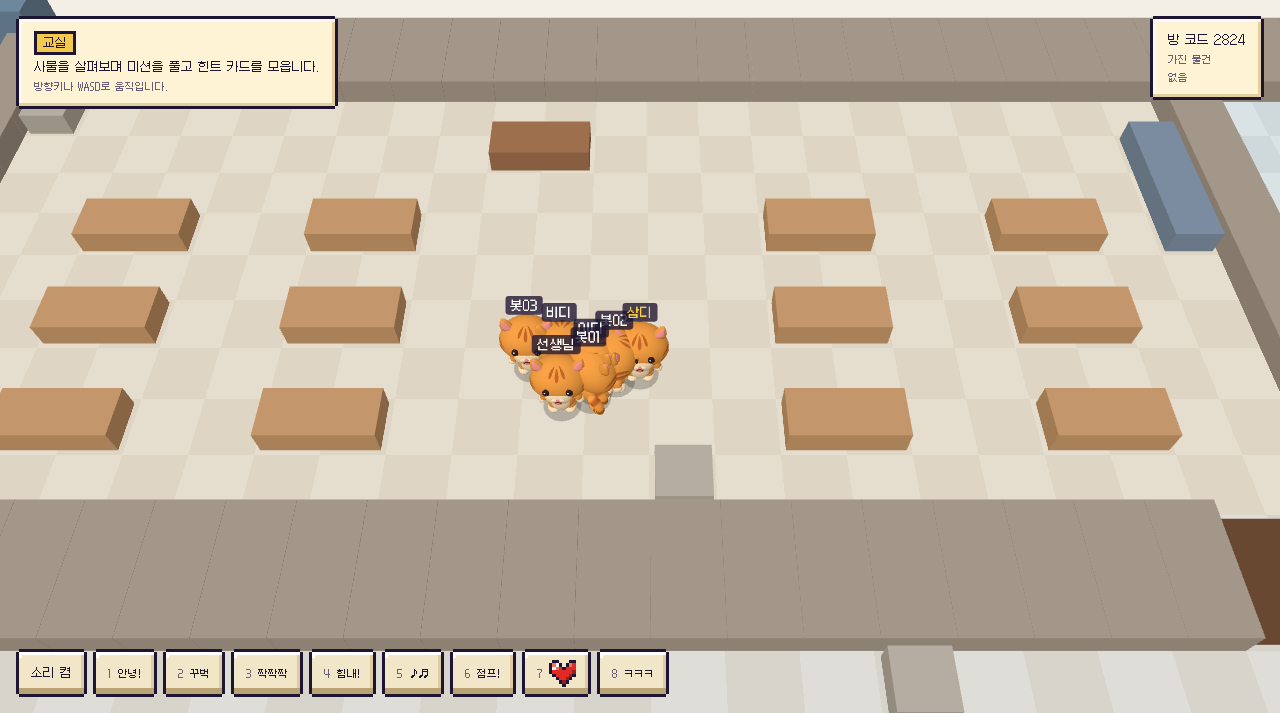
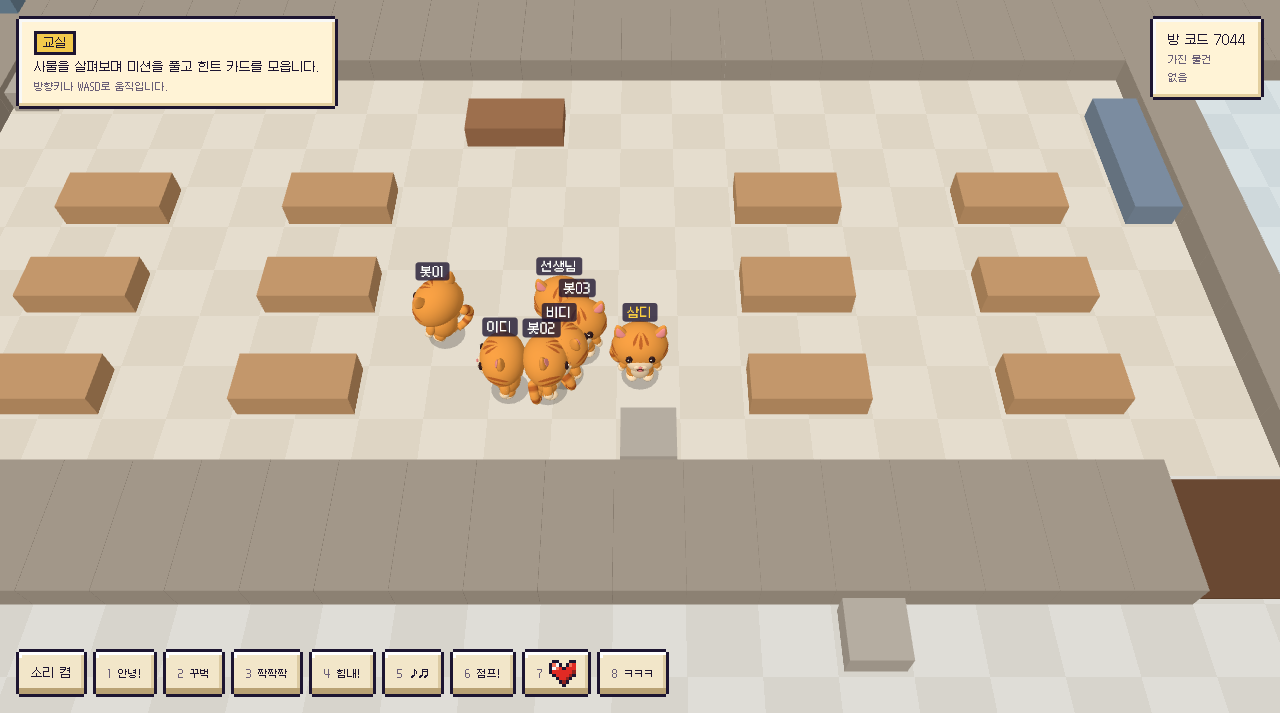
feat: 미니게임 3D 효과음 연결, 선생님 이모트 줄을 접고 골든벨 창 아래로
- src/audio/miniSounds.ts(새)와 soundRules.miniSounds: 세기 3·2·1 삐, 출발, 줍기/금 줍기,
  공에 맞음, 결과 팡파르. 줄다리기는 누를 때 바로 tug(sfx.json gap 0.18초로 너무 잦지 않게).
  minigame3d.ts에는 등록 세 줄(만들기·update·pulled), 전체 상태 감시(gameSounds)에서 미니게임은 뺌.
- 선생님 화면의 이모트 줄은 늘 접힘, 골든벨 맵에서는 선생님 창 맨 아래로 옮김(학생 화면은 그대로).
- 확인 스크립트: playtest:mini3d에 효과음 6개 확인과 대화상자 열림 직후 클릭 대기,
  playtest:fx3d에 선생님 줄 확인과 답 구역을 맵 데이터에서 읽기.

Design: design/quick-specs/emote-sfx-quick-questions-2026-11-22.md
Task: task_77404d6ae467

diff --git a/src/ui/emoteBar.ts b/src/ui/emoteBar.ts
@@ -1,4 +1,5 @@
-// 화면 아래 왼쪽 단추 줄: 소리 켜기/끄기와 이모트 8가지(키보드 1~8). 휴대폰은 이모트를 "이모트" 단추 하나로 접어 두고 누르면 편다.
+// 화면 아래 왼쪽 단추 줄: 소리 켜기/끄기와 이모트 8가지(키보드 1~8). 휴대폰과 선생님 화면은 이모트를 "이모트" 단추 하나로 접어 두고 누르면 편다.
+// 선생님 골든벨 화면에서는 emotes3d.ts가 이 줄을 선생님 창 아래로 옮긴다(경기장을 가리지 않게).
 // 이모트를 보내는 일과 말풍선은 src/three/emotes3d.ts가 맡는다. 겉모양은 src/ui/feature.css.
 import { EMOTES, EMOTE_COOLDOWN_MS } from '../../shared/emotes.ts';
 import type { Sfx } from '../audio/sfx';
@@ -8,7 +9,7 @@ import { uiIcon } from './pictures';
 import './feature.css';
 
 export class EmoteBar {
-  private readonly node = el('div', 'df-fx-bar');
+  readonly node = el('div', 'df-fx-bar');
   private readonly sound = el('button', 'df-button df-button-small df-button-light df-fx-sound');
   private readonly fold = el('button', 'df-button df-button-small df-button-light df-fx-fold', '이모트');
   private readonly list = el('div', 'df-fx-emotes');
@@ -20,10 +21,11 @@ export class EmoteBar {
   private readonly offSound: () => void;
   private readonly onResize = () => this.layout();
 
-  /** onEmote: 이모트 단추를 눌렀을 때(이모트 id) */
+  /** onEmote: 이모트 단추를 눌렀을 때(이모트 id). folded면 화면 크기와 상관없이 접어 둔다(선생님, 이모트를 거의 쓰지 않음). */
   constructor(
     private readonly sfx: Sfx,
     onEmote: (id: string) => void,
+    private readonly folded = false,
   ) {
     watchPhone();
     this.node.setAttribute('aria-label', '소리와 이모트');
@@ -69,7 +71,7 @@ export class EmoteBar {
     this.node.classList.add('is-cooling');
     clearTimeout(this.coolTimer);
     this.coolTimer = setTimeout(() => this.node.classList.remove('is-cooling'), EMOTE_COOLDOWN_MS);
-    if (isPhone() && this.open) {
+    if (this.compact() && this.open) {
       this.open = false;
       this.layout();
     }
@@ -95,10 +97,15 @@ export class EmoteBar {
     this.sound.classList.toggle('is-off', !on);
   }
 
+  /** 이모트를 접어 둘지(휴대폰·선생님) */
+  private compact() {
+    return this.folded || isPhone();
+  }
+
   private layout() {
-    const phone = isPhone();
-    this.fold.hidden = !phone;
-    this.list.hidden = phone && !this.open;
+    const compact = this.compact();
+    this.fold.hidden = !compact;
+    this.list.hidden = compact && !this.open;
     this.fold.setAttribute('aria-expanded', String(this.open));
     this.fold.textContent = this.open ? '이모트 닫기' : '이모트';
   }

diff --git a/src/three/emotes3d.ts b/src/three/emotes3d.ts
@@ -171,7 +171,7 @@ export class Emotes3D {
     private readonly sfx: Sfx = defaultSfx,
   ) {
     for (const e of EMOTES) iconImage(e.icon);
-    this.bar = new EmoteBar(sfx, (id) => this.send(id));
+    this.bar = new EmoteBar(sfx, (id) => this.send(id), net.role === 'teacher');
     window.addEventListener('keydown', this.onKey);
     net.room.onMessage('emote', (m: EmoteBroadcast) => this.receive(m));
     // 서버는 받겠다고 알린 화면에만 이모트를 보낸다(2D 화면·봇에는 보내지 않음). 다시 붙어도 같은 접속 id라 이어진다.
@@ -224,6 +224,7 @@ export class Emotes3D {
 
   /** 매 프레임: 말풍선 자리·투명도와 몸으로 하는 동작. 시간이 지난 말풍선은 지운다. */
   update(now = performance.now()) {
+    this.placeBar();
     for (const [id, b] of this.bubbles) {
       const showMs = this.holdMs || emoteUi.showMs;
       const age = now - b.since;
@@ -245,6 +246,17 @@ export class Emotes3D {
       b.sprite.visible = !this.hushed(id) && ch.shownOpacity > 0;
       if (b.moved === ch) this.pose(ch, b.emote, age);
     }
+  }
+
+  /**
+   * 단추 줄의 자리: 선생님 골든벨 화면이면 선생님 창(.df-gb-panel) 맨 아래(경기장을 가리지 않게), 아니면 화면 아래 왼쪽.
+   * 맵을 옮기면 선생님 창이 줄과 함께 지워지므로 매 프레임 확인해 다시 붙인다.
+   */
+  private placeBar() {
+    const node = this.bar.node;
+    const panel = this.net.role === 'teacher' && this.mapOf() === 'goldenbell' ? document.querySelector('#ui .df-gb-panel') : null;
+    const parent = panel ?? document.getElementById('ui');
+    if (parent && node.parentElement !== parent) parent.append(node);
   }
 
   /** 몸으로 흉내 내는 동작: 숙이기(앞으로 기울였다 돌아옴), 흔들기(좌우), 들썩이기(위아래) */
@@ -308,6 +320,11 @@ export class Emotes3D {
         this.holdMs = ms;
       },
       sounds: () => ({ enabled: this.sfx.enabled, started: this.sfx.started, played: [...this.sfx.played], requested: [...this.sfx.requested] }),
+      /** 확인용: 울린·울리려 한 소리 목록을 비운다 */
+      soundsReset: () => {
+        this.sfx.played.length = 0;
+        this.sfx.requested.length = 0;
+      },
     });
   }
 }

diff --git a/src/audio/soundRules.ts b/src/audio/soundRules.ts
@@ -29,21 +29,28 @@ export function gbSounds(prev: GbSnapshot | null, next: GbSnapshot): SoundName[]
 export interface MiniSnapshot {
   kind: string;
   phase: string;
+  /** 남은 시간(초): 세는 중이면 3·2·1 */
+  timeLeft: number;
+  /** 내 점수(선생님은 0) */
   score: number;
+  /** 공 피하기에서 내가 맞아 탈락함 */
   out: boolean;
 }
 
-export function miniSounds(prev: MiniSnapshot | null, next: MiniSnapshot): SoundName[] {
+/**
+ * 미니게임 상태 변화 → 소리. 세기 3·2·1마다 삐, 시작(play)에 출발 소리, 보물찾기에서 내 점수가 오르면 줍기
+ * (한 번에 goldPoints 넘게 오르면 금 보물), 공에 맞으면 맞음, 결과 창이 뜨면 팡파르.
+ * 줄다리기 당기기는 점수(서버가 센 수)가 아니라 누를 때 화면이 바로 울린다(MiniSounds.pulled). 공 피하기 점수(버틴 시간)는 소리 없음.
+ */
+export function miniSounds(prev: MiniSnapshot | null, next: MiniSnapshot, goldPoints: number): SoundName[] {
   if (!prev) return [];
   const out: SoundName[] = [];
-  if ((next.phase === 'count' || next.phase === 'play') && prev.phase !== 'count' && prev.phase !== 'play') out.push('miniStart');
-  if (next.phase === 'play' && next.score > prev.score) {
-    // 보물찾기는 주운 점수, 줄다리기는 누른 수가 오른다(공 피하기의 점수는 버틴 시간이라 소리를 내지 않는다).
-    if (next.kind === 'treasure') out.push('pick');
-    else if (next.kind === 'tug') out.push('pop');
+  if (next.phase === 'count' && next.timeLeft > 0 && (prev.phase !== 'count' || prev.timeLeft !== next.timeLeft)) out.push('countBeep');
+  if (next.phase === 'play' && prev.phase !== 'play') out.push('miniStart');
+  if (next.phase === 'play' && prev.phase === 'play' && next.kind === 'treasure' && next.score > prev.score) {
+    out.push(next.score - prev.score >= goldPoints ? 'pickGold' : 'pick');
   }
   if (next.out && !prev.out) out.push('hit');
   if (next.phase === 'result' && prev.phase !== 'result') out.push('fanfare');
   return out;
 }
-

diff --git a/src/audio/gameSounds.ts b/src/audio/gameSounds.ts
@@ -1,16 +1,15 @@
 // 서버 상태가 바뀌면 효과음을 울린다(design/quick-specs/emote-sfx-quick-questions-2026-11-22.md).
 // 상태를 0.1초마다 보고 바뀐 것에만 소리를 낸다: 골든벨(문제 시작, 마감 3초 째깍, 내 채점 결과, 결과 팡파르),
-// 공지·강당으로 모으기, 미니게임(시작, 보물 줍기, 공에 맞음, 줄 당기기, 결과). 미니게임 3D 화면이 없어도 상태만 보고 울린다.
+// 공지·강당으로 모으기. 미니게임 소리는 미니게임 3D 화면(src/three/minigame3d.ts)이 MiniSounds(src/audio/miniSounds.ts)로 건다.
 import type { Net } from '../net/connection';
 import { sfx as defaultSfx, type Sfx } from './sfx';
-import { gbSounds, miniSounds, type GbSnapshot, type MiniSnapshot } from './soundRules.ts';
+import { gbSounds, type GbSnapshot } from './soundRules.ts';
 
 const POLL_MS = 100;
 
 /** 이 화면의 연결에 효과음을 건다. 그만둘 때 부를 함수를 돌려준다. */
 export function startGameSounds(net: Net, sfx: Sfx = defaultSfx) {
   let gb: GbSnapshot | null = null;
-  let mini: MiniSnapshot | null = null;
   let gathering = false;
   const timer = setInterval(() => {
     const me = net.me();
@@ -25,10 +24,6 @@ export function startGameSounds(net: Net, sfx: Sfx = defaultSfx) {
     };
     for (const s of gbSounds(gb, gbNext)) sfx.play(s);
     gb = gbNext;
-    const m = net.mini;
-    const miniNext: MiniSnapshot = { kind: m.kind, phase: m.phase, score: student ? (me?.miniScore ?? 0) : 0, out: student && !!me?.miniOut };
-    for (const s of miniSounds(mini, miniNext)) sfx.play(s);
-    mini = miniNext;
     const g2 = net.gather.left > 0;
     if (g2 && !gathering) sfx.play('notice');
     gathering = g2;

diff --git a/src/three/minigame3d.ts b/src/three/minigame3d.ts
@@ -38,6 +38,7 @@ import {
   type MiniKind,
 } from '../../shared/minigame.ts';
 import { CLASS_GROUPS, classGroupName } from '../../shared/protocol.ts';
+import { MiniSounds } from '../audio/miniSounds';
 import type { Player } from '../../shared/schema.ts';
 import type { Net } from '../net/connection';
 import { alpha, mini3d, size } from '../theme';
@@ -107,6 +108,8 @@ const UP = new Vector3(0, 1, 0);
 
 export class MiniGame3D {
   private readonly hud = new MiniHud();
+  /** 효과음(세기·시작·줍기·맞음·당기기·결과, src/audio/miniSounds.ts) */
+  private readonly sounds: MiniSounds;
   private tug: TugPanel | null = null;
   private readonly group = new Group();
   private readonly disposables: { dispose(): void }[] = [];
@@ -144,6 +147,7 @@ export class MiniGame3D {
   };
 
   constructor(private readonly host: Mini3DHost) {
+    this.sounds = new MiniSounds(host.net);
     const n = TREASURE_COUNT + GOLD_COUNT;
     const box = new BoxGeometry(mini3d.treasureSize, mini3d.treasureSize * 0.8, mini3d.treasureSize * 0.8);
     const gem = new OctahedronGeometry(mini3d.goldSize).scale(0.8, 1.1, 0.8);
@@ -247,6 +251,7 @@ export class MiniGame3D {
   update(time: number) {
     const m = this.mini;
     if (!m) return;
+    this.sounds.update();
     const key = m.kind ? `${m.kind}|${m.seed}` : '';
     if (key !== this.shown) this.begin(key);
     else if (!key) this.idle = this.host.pos();
@@ -420,6 +425,7 @@ export class MiniGame3D {
     const me = this.host.net.me();
     if (this.mini.kind !== 'tug' || this.mini.phase !== 'play' || !this.student || !me?.classGroup) return;
     this.host.net.miniTug();
+    this.sounds.pulled();
   }
 
   private updateTug() {

diff --git a/src/audio/miniSounds.ts b/src/audio/miniSounds.ts
@@ -1,0 +1,33 @@
+// 미니게임 효과음(design/quick-specs/emote-sfx-quick-questions-2026-11-22.md). 미니게임 3D 화면(src/three/minigame3d.ts)이 만들어
+// 매 프레임 update()를 부르고, 줄다리기를 당길 때 pulled()를 부른다. 소리 규칙은 soundRules.ts의 miniSounds.
+import { GOLD_POINTS } from '../../shared/minigame.ts';
+import type { Net } from '../net/connection';
+import { sfx as defaultSfx, type Sfx } from './sfx';
+import { miniSounds, type MiniSnapshot } from './soundRules.ts';
+
+export class MiniSounds {
+  private last: MiniSnapshot | null = null;
+  private readonly net: Net;
+  private readonly sfx: Sfx;
+
+  constructor(net: Net, sfx: Sfx = defaultSfx) {
+    this.net = net;
+    this.sfx = sfx;
+  }
+
+  /** 매 프레임: 서버 상태(세기·시작·내 점수·탈락·결과)가 바뀌었으면 울린다. 처음 본 상태는 울리지 않는다. */
+  update() {
+    const m = this.net.mini;
+    const me = this.net.me();
+    const student = this.net.role === 'student';
+    const next: MiniSnapshot = { kind: m.kind, phase: m.phase, timeLeft: m.timeLeft, score: student ? (me?.miniScore ?? 0) : 0, out: student && !!me?.miniOut };
+    const prev = this.last;
+    this.last = next;
+    for (const s of miniSounds(prev, next, GOLD_POINTS)) this.sfx.play(s);
+  }
+
+  /** 줄다리기를 한 번 당겼다(누를 때 바로 울림. 너무 잦지 않게 sfx.json의 tug.gap 간격) */
+  pulled() {
+    this.sfx.play('tug');
+  }
+}

diff --git a/src/audio/sfx.ts b/src/audio/sfx.ts
@@ -34,9 +34,9 @@ export class Sfx {
   private on = readEnabled();
   private readonly lastAt = new Map<string, number>();
   private readonly listeners = new Set<(on: boolean) => void>();
-  /** 확인용: 울린 소리 이름(최근 50개). 소리를 끈 동안·오디오가 아직 없을 때는 넣지 않는다. */
+  /** 확인용: 울린 소리 이름(최근 300개). 소리를 끈 동안·오디오가 아직 없을 때는 넣지 않는다. */
   readonly played: string[] = [];
-  /** 확인용: 울리려 했던 소리 이름(최근 50개, 꺼짐·오디오 없음과 상관없이) */
+  /** 확인용: 울리려 했던 소리 이름(최근 300개, 꺼짐·오디오 없음과 상관없이) */
   readonly requested: string[] = [];
 
   constructor() {
@@ -121,7 +121,7 @@ export class Sfx {
 
 function push(list: string[], name: string) {
   list.push(name);
-  if (list.length > 50) list.shift();
+  if (list.length > 300) list.shift();
 }
 
 /** 화면 전체가 함께 쓰는 효과음 */

diff --git a/src/ui/feature.css b/src/ui/feature.css
@@ -14,6 +14,12 @@
   max-width: calc(100vw - 2 * var(--df-margin));
   flex-wrap: wrap;
 }
+/* 선생님 골든벨 화면: 선생님 창 맨 아래에 둔다(emotes3d.ts placeBar) */
+.df-gb-panel > .df-fx-bar {
+  position: static;
+  margin-top: auto;
+  max-width: none;
+}
 .df-fx-sound.is-off {
   color: var(--df-text-muted);
 }

diff --git a/design/quick-specs/emote-sfx-quick-questions-2026-11-22.md b/design/quick-specs/emote-sfx-quick-questions-2026-11-22.md
@@ -13,7 +13,8 @@
 ### 규칙
 1. 이모트 8가지(shared/emotes.ts): 손인사(wave 동작), 꾸벅(몸 숙이기), 박수, 응원(jump), 춤(몸 흔들기), 점프(jump), 하트(도트 하트 그림), 웃음.
    말풍선은 이모지 대신 도트 그림(public/sprites/ui의 heart·sparkle 등)이나 도트 글꼴 글자("안녕!", "짝짝" 등)로 그린다.
-2. 누르는 곳: 화면 아래 왼쪽 단추 줄(소리 단추 옆). 휴대폰은 "이모트" 단추 하나로 접혀 있고 누르면 펼친다. 키보드 1~8(글을 쓰는 중·창이 떠 있을 때는 받지 않는다).
+2. 누르는 곳: 화면 아래 왼쪽 단추 줄(소리 단추 옆). 휴대폰은 "이모트" 단추 하나로 접혀 있고 누르면 펼친다.
+   선생님 화면은 늘 접혀 있고(선생님은 이모트를 거의 쓰지 않음), 골든벨 맵에서는 단추 줄이 선생님 창 맨 아래로 옮겨 경기장을 가리지 않는다. 키보드 1~8(글을 쓰는 중·창이 떠 있을 때는 받지 않는다).
 3. 화면은 'emote' {id}를 보내고 바로 내 캐릭터에 보이지 않는다(서버가 받아 준 것만 보인다. 막힌 이모트가 나에게만 보이지 않게).
 4. 서버(server/emotes.ts): 상태에 남기지 않는 한 번 메시지. 같은 맵에 있는 접속자에게만 보낸다.
    - 한 사람 재사용 대기 1.5초, 1분에 20번까지. 넘으면 버린다(답 없음).
@@ -31,7 +32,8 @@
    - 골든벨 단계가 question으로(문제 번호가 바뀜) → 문제 시작. question 중 남은 시간 3·2·1 → 째깍.
    - reveal로 → 내 결과(correct·heart 맞음, wrong 틀림, out 탈락, revived 부활). 선생님·결과 없음은 맞음보다 작은 "공개" 소리.
    - end로 → 팡파르. 공지·강당으로 모으기 시작 → 공지 소리.
-   - 미니게임: count·play로 → 시작, 내 miniScore가 오름 → 줍기, 내 miniOut이 켜짐 → 맞음, result로 → 팡파르. (미니게임 3D 화면이 없어도 상태만 보고 울린다.)
+   - 미니게임(2026-11-22 추가, 미니게임 3D가 MiniSounds로 건다): 세기 3·2·1마다 삐, play로 → 출발, 보물찾기에서 내 점수가 오름 → 줍기(GOLD_POINTS 넘게 오르면 금 줍기),
+     내 miniOut이 켜짐 → 맞음, 줄다리기는 누를 때 바로 당기기 소리(0.18초 안의 거듭 누름은 한 번), result로 → 팡파르.
 3. 소리 켜기/끄기 단추: 화면 아래 왼쪽(이모트 줄의 맨 앞). 기억은 localStorage(df-sound, try/catch). 처음은 켜짐.
 4. 브라우저 정책: 첫 터치·클릭·키 누름 뒤에 AudioContext를 만들거나 깨운다. 그 전의 소리는 내지 않는다.
 

diff --git a/docs/design.md b/docs/design.md
@@ -490,5 +490,7 @@
 - 이모트 8가지(손인사·꾸벅·박수·응원·춤·점프·하트·웃음): 아래 왼쪽 단추 줄(휴대폰은 "이모트" 단추로 접음)·키 1~8. 머리 위 말풍선 1.5초.
   서버가 같은 맵에 한 번 보낸다(상태에 남기지 않음). 한 사람 1.5초 대기·1분 20번. 골든벨 문제 중 학생 이모트는 그 학생과 선생님만 본다.
 - 효과음: 소리 파일 없이 WebAudio로 합성(src/data/sfx.json). 아래 왼쪽 "소리 켬/끔" 단추, 이 브라우저에 기억. 첫 터치·클릭·키 뒤에 시작.
+  미니게임 3D: 세기 삐·출발·줍기(금은 따로)·공에 맞음·줄 당기기(0.18초 안 거듭 누름은 한 번)·결과 팡파르.
+- 선생님 화면의 이모트 줄은 접어 두고, 골든벨에서는 선생님 창 맨 아래로 옮겨 경기장을 가리지 않는다(학생 화면은 그대로).
 - 바로 내기: 강당으로 모으기의 문제 파일 목록 맨 위. 한 문제씩 쓰기와 여러 줄 붙여넣기(문제 | O | 해설, 문제 | 보기 / 보기 | 번호 | 해설, 문제 | =답1, 답2 | 해설, 끝 칸 "30초").
   문제는 그 방의 서버 메모리에만 두고, 선생님 브라우저에 "내 문제"로 남는다. 넌센스는 없다. 골든벨 중 선생님 창의 "즉석 문제"로 하나를 지금 문제 뒤에 끼운다.
